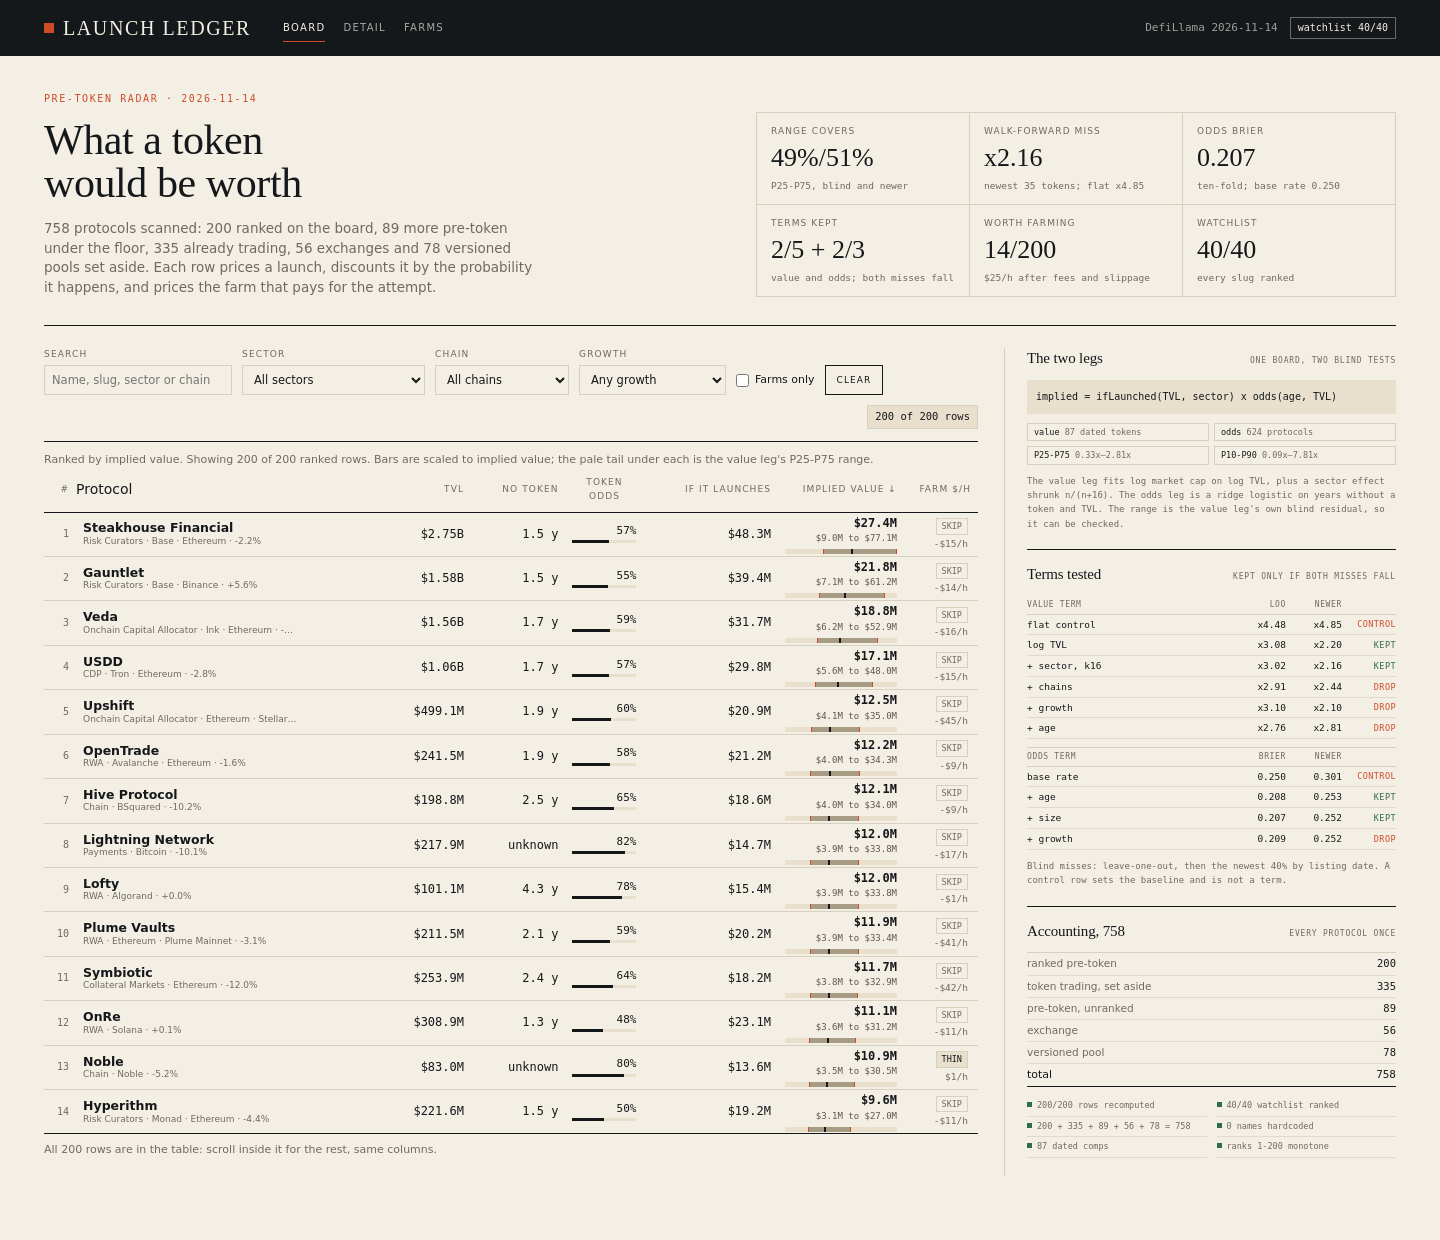
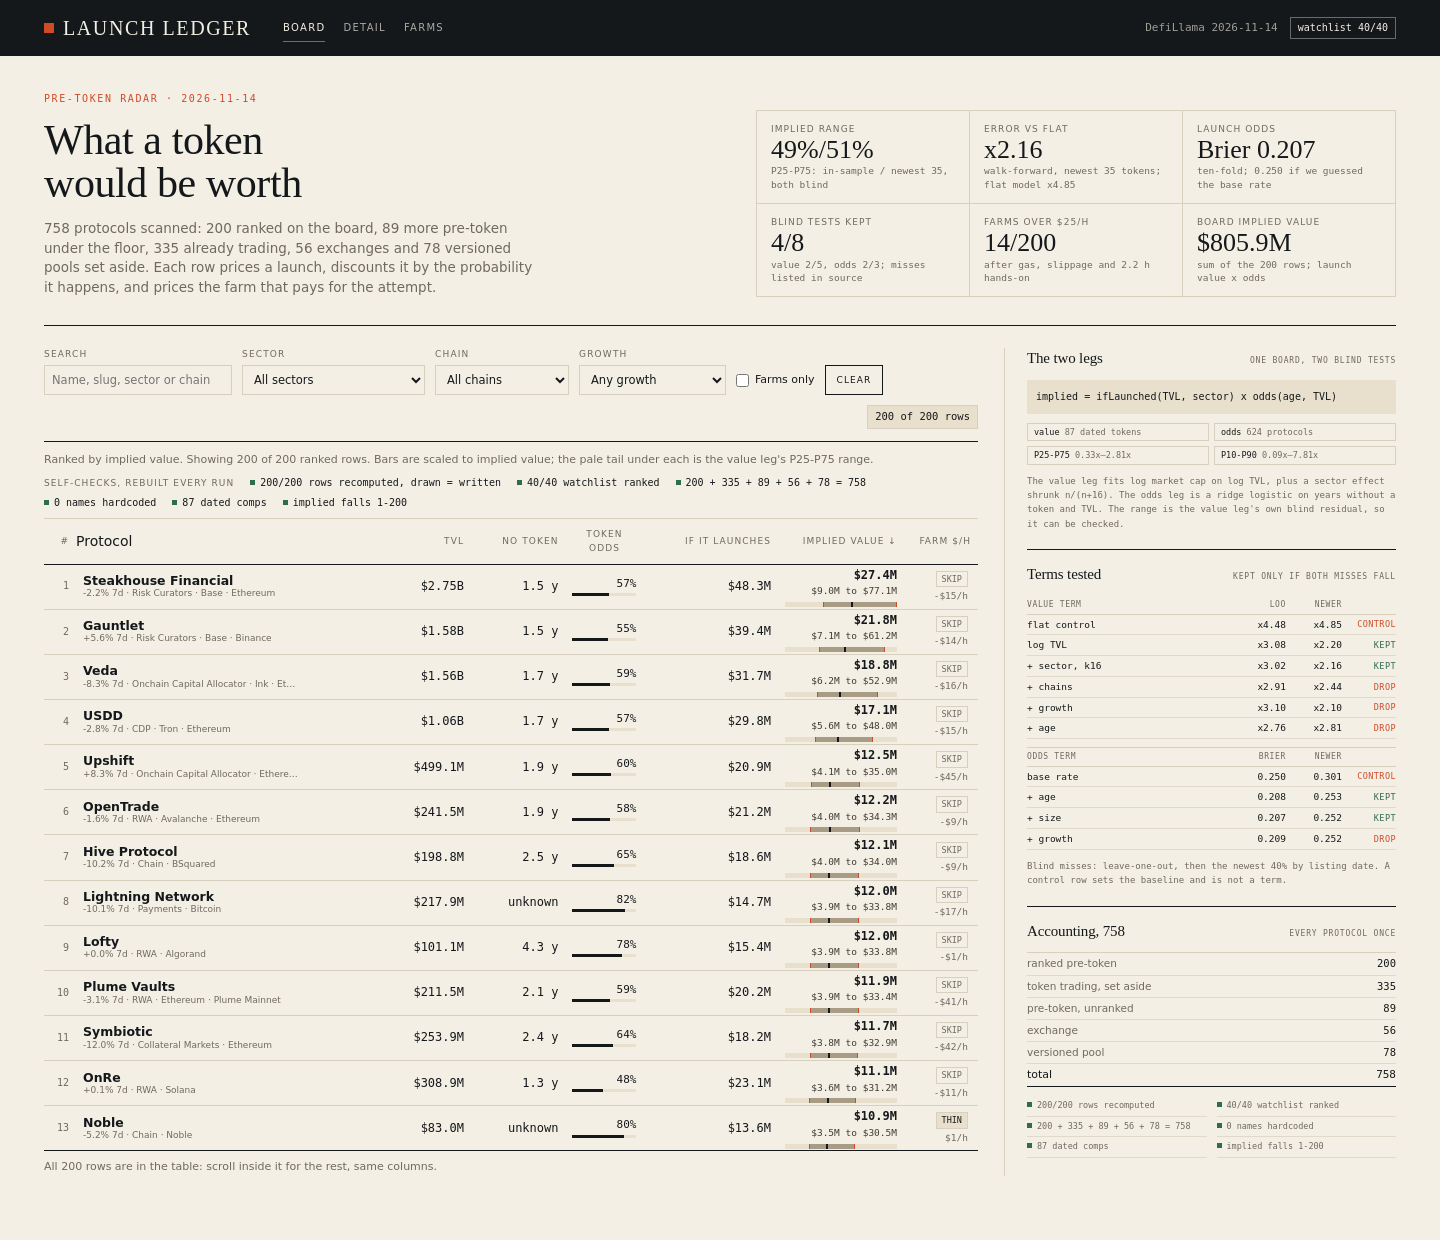
Self-checks strip, plain KPI labels, 7d delta first, 1440x1240 judge shots

diff --git a/dashboard/app.js b/dashboard/app.js
@@ -55,16 +55,17 @@ function kpi(label, value, note) { return '<div class=kpi><span>' + label + '</s
 function hero() {
 var v = D.tests.value, o = D.tests.odds, b = D.model.band;
 var vk = v.filter(function (t) { return t.kept; }).length, ok = o.filter(function (t) { return t.kept; }).length;
+var total = D.rows.reduce(function (a, r) { return a + r.implied_value_usd; }, 0);
 var sector = v[2], base = o[0], finalO = o[2];
 return '<section class=hero><div><p class=kicker>Pre-token radar · ' + D.as_of + '</p><h1>What a token would be worth</h1><p class=dek>' +
 D.scanned + ' protocols scanned: ' + D.ledger.ranked + ' ranked on the board, ' + D.ledger.pre + ' more pre-token under the floor, ' + D.ledger.token + ' already trading, ' +
 D.ledger.cex + ' exchanges and ' + D.ledger.versioned + ' versioned pools set aside. Each row prices a launch, discounts it by the probability it happens, and prices the farm that pays for the attempt.</p></div><div class=kpis>' +
-kpi('Range covers', Math.round(b.cover25 * 100) + '%/' + Math.round(b.newer25 * 100) + '%', 'P25-P75, blind and newer') +
-kpi('Walk-forward miss', 'x' + Math.pow(10, sector.newer).toFixed(2), 'newest ' + b.newerN + ' tokens; flat x' + Math.pow(10, v[0].newer).toFixed(2)) +
-kpi('Odds Brier', finalO.brier.toFixed(3), 'ten-fold; base rate ' + base.brier.toFixed(3)) +
-kpi('Terms kept', vk + '/' + (v.length - 1) + ' + ' + ok + '/' + (o.length - 1), 'value and odds; both misses fall') +
-kpi('Worth farming', D.farms + '/' + D.board_size, '$25/h after fees and slippage') +
-kpi('Watchlist', D.checks.watchlist_covered + '/' + D.checks.watchlist_total, 'every slug ranked') +
+kpi('Implied range', Math.round(b.cover25 * 100) + '%/' + Math.round(b.newer25 * 100) + '%', 'P25-P75: in-sample / newest ' + b.newerN + ', both blind') +
+kpi('Error vs flat', 'x' + Math.pow(10, sector.newer).toFixed(2), 'walk-forward, newest ' + b.newerN + ' tokens; flat model x' + Math.pow(10, v[0].newer).toFixed(2)) +
+kpi('Launch odds', 'Brier ' + finalO.brier.toFixed(3), 'ten-fold; ' + base.brier.toFixed(3) + ' if we guessed the base rate') +
+kpi('Blind tests kept', (vk + ok) + '/' + (v.length - 1 + o.length - 1), 'value ' + vk + '/' + (v.length - 1) + ', odds ' + ok + '/' + (o.length - 1) + '; misses listed in source') +
+kpi('Farms over $25/h', D.farms + '/' + D.board_size, 'after gas, slippage and 2.2 h hands-on') +
+kpi('Board implied value', usd(total), 'sum of the ' + D.board_size + ' rows; launch value x odds') +
 '</div></section>';
 }
 
@@ -123,7 +124,7 @@ function rowHtml(r) {
 var g = r.change_7d;
 function at(v) { return Math.min(100, Math.sqrt(Math.max(0, v) / IMP_MAX) * 100); }
 var lo = at(r.implied_low), hi = at(r.implied_high), pt = at(r.implied_value_usd);
-var sub = state.farms ? esc(r.farm.play) + ' · cost ' + usd2(r.farm.cost) + ' · ' + hoursText(r.farm.timeMin) : [catName(r.category)].concat(r.chains.slice(0, 2)).join(' · ') + ' · ' + pct(g);
+var sub = state.farms ? esc(r.farm.play) + ' · cost ' + usd2(r.farm.cost) + ' · ' + hoursText(r.farm.timeMin) : (g === null || g === undefined ? 'no 7d' : pct(g) + ' 7d') + ' · ' + [catName(r.category)].concat(r.chains.slice(0, 2)).join(' · ');
 return '<tr data-slug="' + esc(r.slug) + '"><td class=rank>' + r.rank + '</td>' +
 '<td><div class=pname>' + esc(r.name) + '</div><div class=psub>' + esc(sub) + '</div>' + '</td>' +
 '<td class=r>' + usd(r.tvl_usd) + '</td><td class=r>' + age(r.age_days) + '</td>' +
@@ -191,12 +192,26 @@ return panel('Accounting, ' + D.ledger_sum, 'EVERY PROTOCOL ONCE',
 '<div class="lrow2 total"><span>total</span><b>' + D.ledger_sum + '</b></div></div>' +
 '<div class=strip6>' + chk(c.rows_recomputed + '/' + c.rows + ' rows recomputed') + chk(c.watchlist_covered + '/' + c.watchlist_total + ' watchlist ranked') +
 chk(sum + ' = ' + D.ledger_sum) + chk(c.hardcoded_names + ' names hardcoded') + chk(c.comps_dated + ' dated comps') +
-chk(c.sorted ? 'ranks 1-' + c.rows + ' monotone' : 'ranks not monotone') + '</div>');
+chk(c.sorted ? 'implied falls 1-' + c.rows : 'implied not monotone') + '</div>');
+}
+
+/** checksBar(): the six self-checks, printed above the table so a narrow screen still sees them. */
+function checksBar() {
+var l = D.ledger, c = D.checks;
+var items = [
+c.rows_recomputed + '/' + c.rows + ' rows recomputed, drawn = written',
+c.watchlist_covered + '/' + c.watchlist_total + ' watchlist ranked',
+[l.ranked, l.token, l.pre, l.cex, l.versioned].join(' + ') + ' = ' + D.ledger_sum,
+c.hardcoded_names + ' names hardcoded',
+c.comps_dated + ' dated comps',
+c.sorted ? 'implied falls 1-' + c.rows : 'implied not monotone'
+];
+return '<div class=checksbar><b>Self-checks, rebuilt every run</b>' + items.map(function (t) { return '<span class=cbar><i></i>' + t + '</span>'; }).join('') + '</div>';
 }
 
 /** boardHtml() */
 function boardHtml() {
-return '<section class=shell>' + hero() + '<div class=board><section class=bmain>' + filterBar() + '<p class=caption id=cap></p>' +
+return '<section class=shell>' + hero() + '<div class=board><section class=bmain>' + filterBar() + '<p class=caption id=cap></p>' + checksBar() +
 '<div class=tablebox><table><thead id=thead>' + thead() + '</thead><tbody id=rows></tbody></table></div><p class="caption more" id=more></p></section>' +
 '<aside class=side>' + modelPanel() + termsPanel() + ledgerPanel() + '</aside></div></section>';
 }

diff --git a/dashboard/app.css b/dashboard/app.css
@@ -53,6 +53,10 @@ table{border-collapse:collapse;width:100%}
 .check input{accent-color:var(--ink);width:13px;height:13px;margin:0}
 .btn{height:30px;border:1px solid var(--ink);background:transparent;padding:0 11px;font-size:9px;letter-spacing:.12em;text-transform:uppercase}
 .count{margin-left:auto;font-family:var(--mono);font-size:10.5px;color:var(--ink);padding:3px 7px;border:1px solid var(--rule);background:var(--sand);white-space:nowrap}
+.checksbar{display:flex;flex-wrap:wrap;align-items:center;gap:5px 16px;padding:9px 0 8px;border-bottom:1px solid var(--rule)}
+.checksbar>b{font-size:9px;letter-spacing:.12em;text-transform:uppercase;color:var(--muted);font-weight:400}
+.cbar{display:inline-flex;align-items:baseline;gap:5px;font-family:var(--mono);font-size:10px;white-space:nowrap}
+.cbar i{flex:0 0 auto;display:block;width:5px;height:5px;background:var(--forest);transform:translateY(-1px)}
 .tablebox{overflow:auto;border-bottom:1px solid var(--ink)}
 thead th{position:sticky;top:0;z-index:2;background:var(--bone);border-bottom:1px solid var(--ink);padding:0;text-align:left;font-weight:400}
 thead th button{width:100%;display:flex;align-items:center;gap:4px;border:0;background:none;padding:9px 7px;font-size:9px;letter-spacing:.12em;text-transform:uppercase;color:var(--muted)}
@@ -71,7 +75,7 @@ td.r{text-align:right;font-family:var(--mono);white-space:nowrap}
 .obar i{display:block;height:100%;background:var(--ink)}
 .imp{text-align:right;width:126px}
 .impv{font-family:var(--mono);font-size:12px;font-weight:650;white-space:nowrap}
-.impr{font-family:var(--mono);font-size:9px;color:#5d584f;white-space:nowrap;text-align:right}
+.impr{font-family:var(--mono);font-size:9.5px;color:#3f3b34;white-space:nowrap;text-align:right}
 .impbar{position:relative;height:5px;background:var(--sand);margin:4px 0 0 auto}
 .impbar i{position:absolute;top:0;bottom:0;display:block}
 .impbar .band{background:#a99c85}
